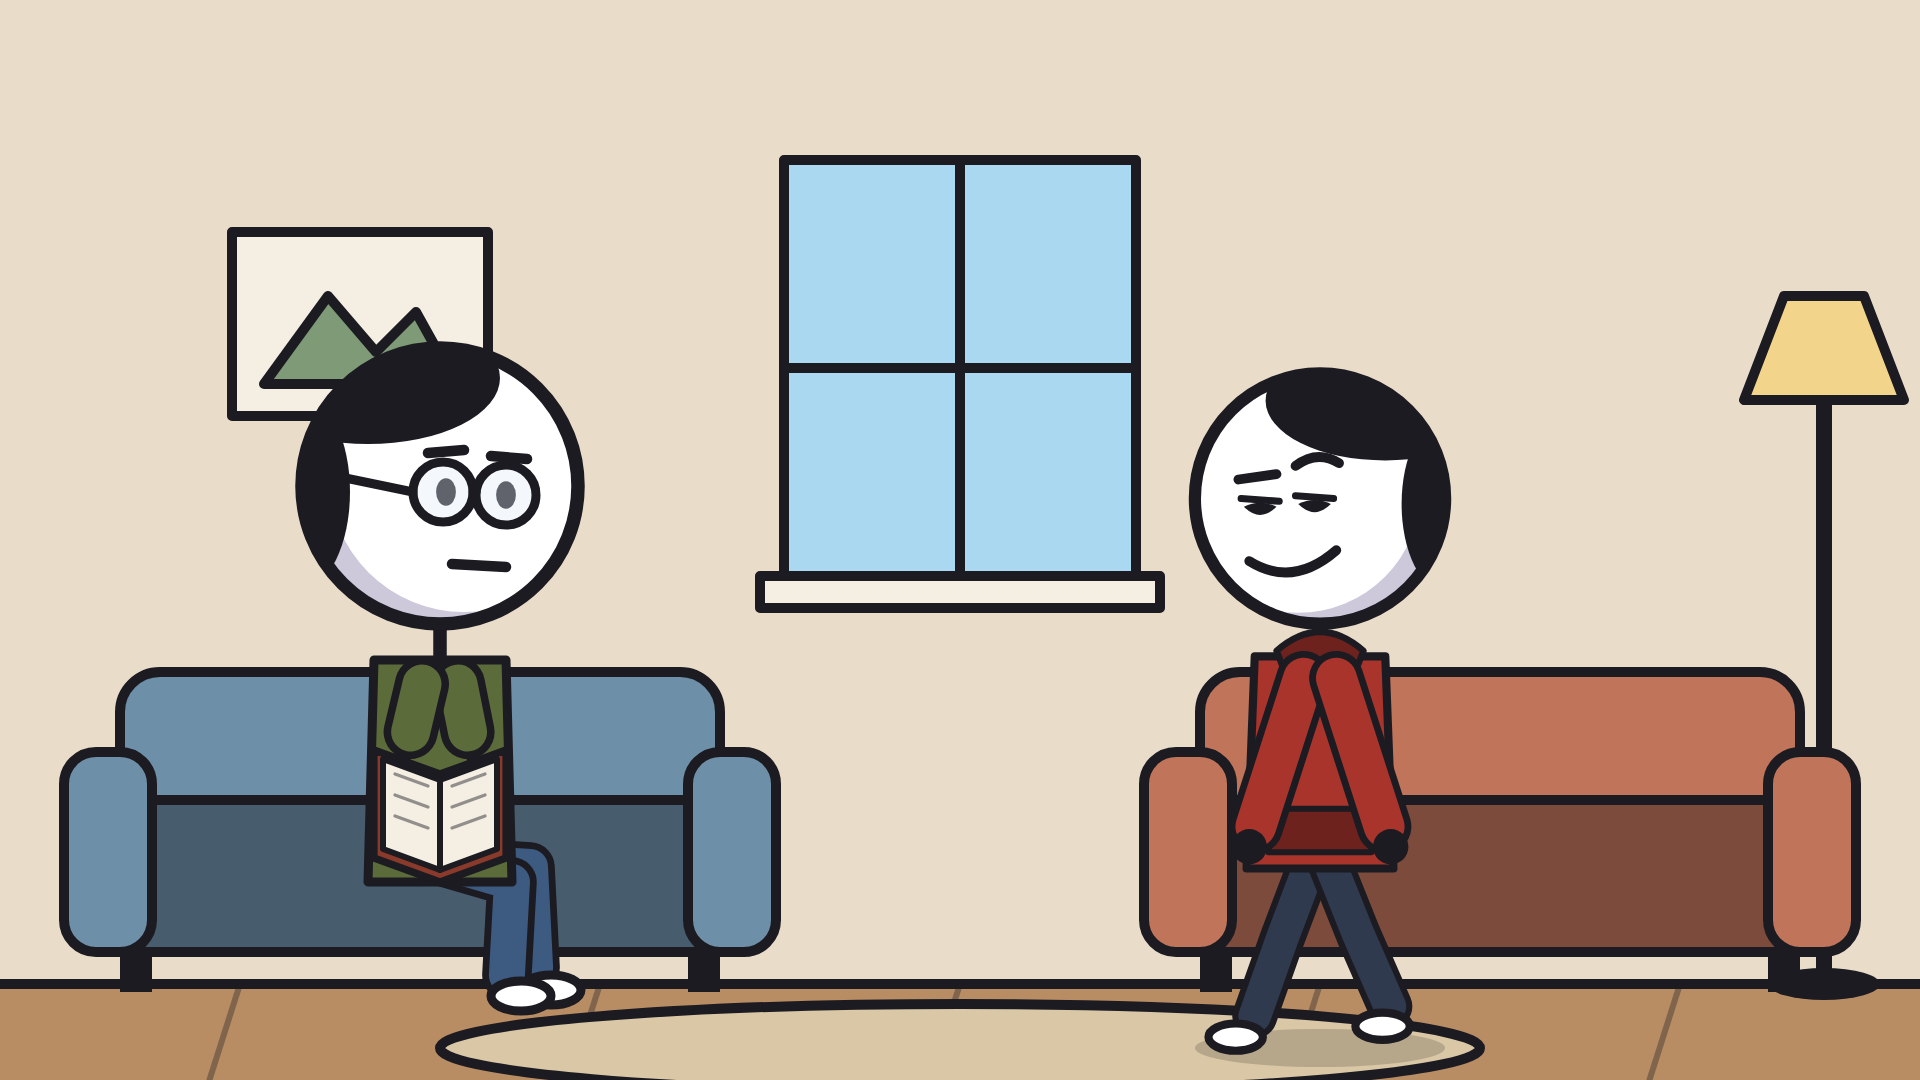
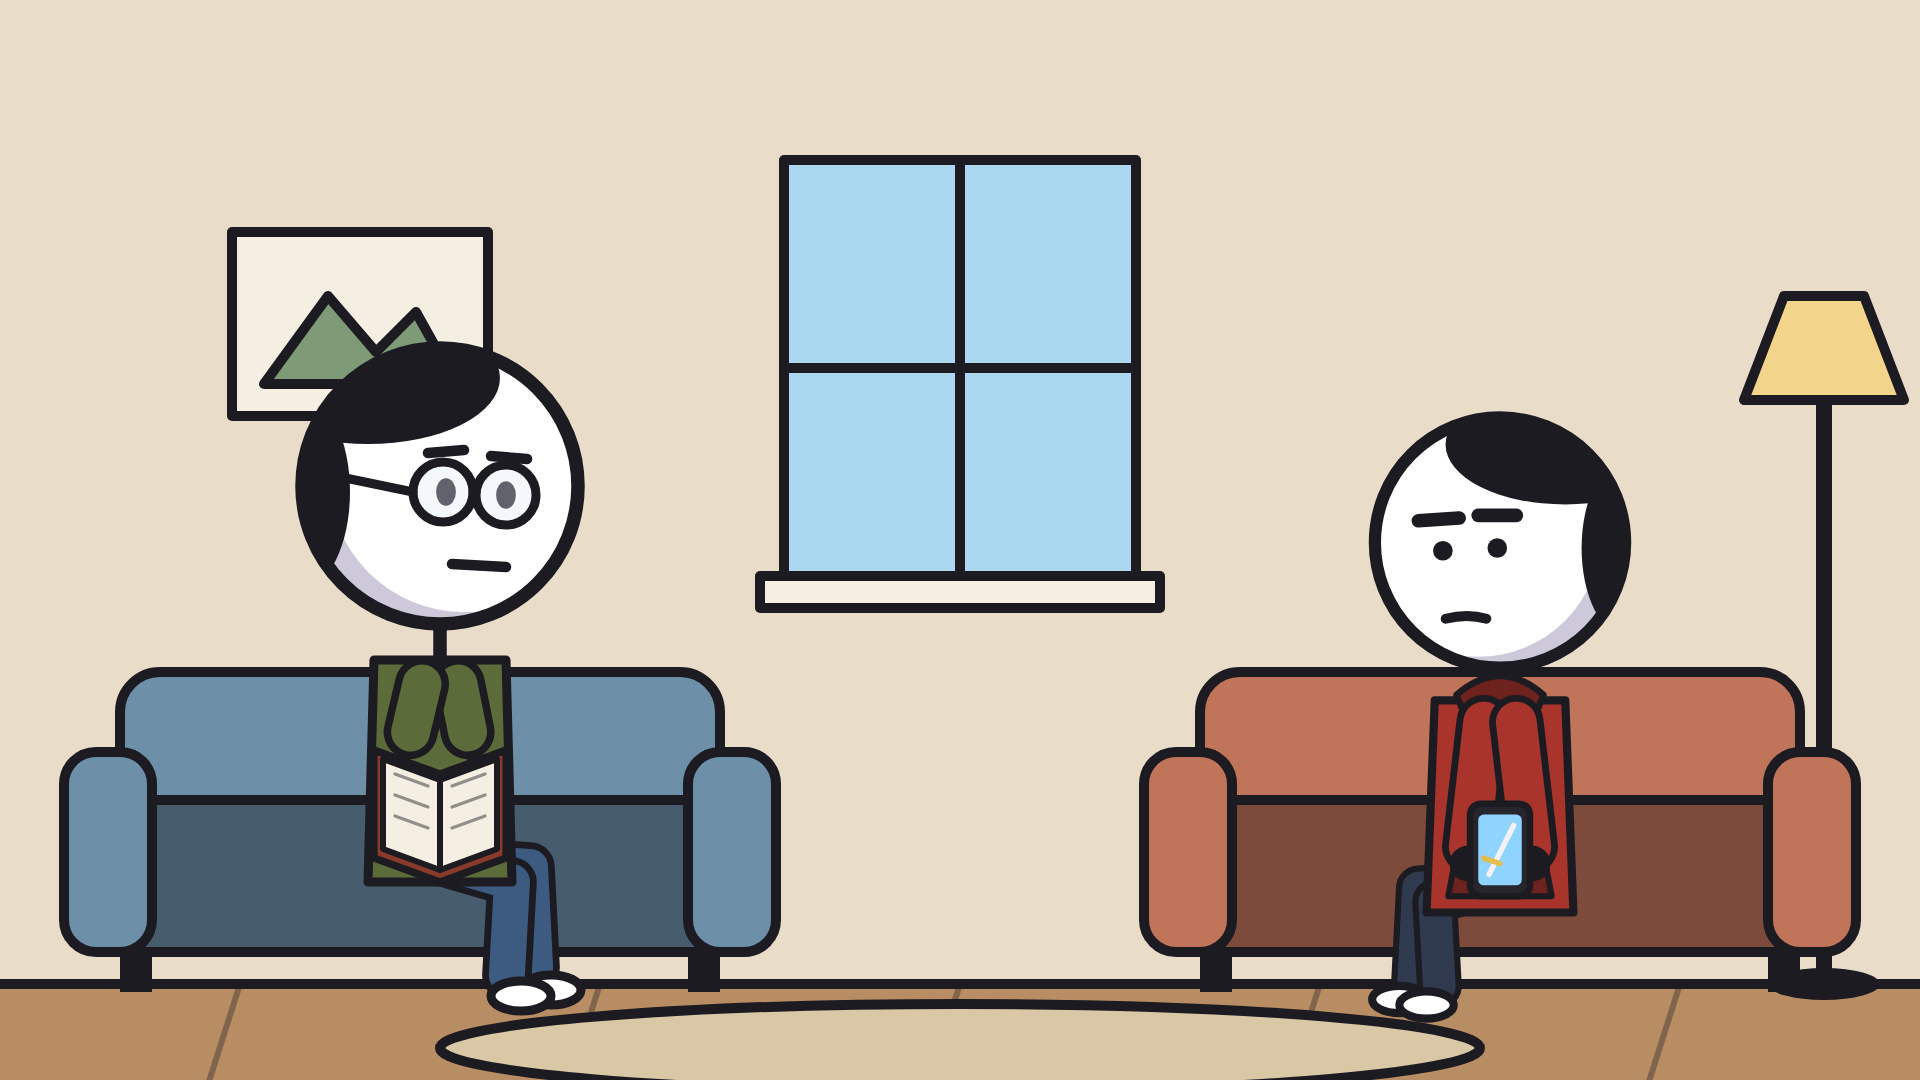
Make Okehazama the channel's first upload: first-meeting intro, forward-looking teasers
Claude-Session: https://claude.ai/code/session_017MZkjJJA6nnTq3dLaS6Yci

Changed region(s): [[0.5938, 0.3361, 0.875, 1.0]]

diff --git a/episodes/02-okehazama/shots.js b/episodes/02-okehazama/shots.js
@@ -52,27 +52,28 @@ module.exports = {
     "Outro": "light",
   },
   shots: [
-    // Intro: father and son in the living room
+    // Intro: father and son in the living room (first episode of the channel)
     { id: "intro-1", section: "Intro", speaker: "son", background: "livingroom", camera: "static",
-      note: "Living room. Father reads on the blue sofa; son walks in, excited.",
-      characters: [sit("Father", DAD, 110, { flip: true }), ch("Son", SON, 330, { scale: 0.68, pose: "walk", face: "smug" })],
-      narration: "Dad! You promised me the next story!" },
+      note: "Living room. Father (glasses, green T-shirt) reads on the blue sofa. His 16-year-old son (red hoodie) sits on the orange sofa, playing a samurai game on his phone.",
+      characters: [sit("Father", DAD, 110, { flip: true }), sit("Son", { ...SON, prop: "phone" }, 375, { scale: 0.68 })],
+      narration: "Come on, come on... one more battle!" },
     { id: "intro-2", section: "Intro", speaker: "father", background: "livingroom", camera: "slow zoom in",
-      note: "Father lowers his book, smiling.",
-      characters: [sit("Father", DAD, 110, { flip: true, face: "smug" }), ch("Son", SON, 300, { scale: 0.68, face: "gentle" })],
-      narration: "I did. Last time, the samurai had peace and nothing left to fight. This time, we go back to when Japan was at war with itself." },
+      note: "Father puts the book down and walks over, smiling.",
+      characters: [ch("Father", DAD, 250, { flip: true, pose: "walk", face: "smug" }), sit("Son", { ...SON, prop: "phone" }, 375, { scale: 0.68 })],
+      narration: "Samurai, huh? Do you know anything about real samurai battles?" },
     { id: "intro-3", section: "Intro", speaker: "son", background: "livingroom", camera: "quick push in",
-      note: "Son, curious.",
-      characters: [sit("Father", DAD, 110, { flip: true, face: "gentle" }), ch("Son", SON, 300, { scale: 0.68, face: "surprised" })],
-      narration: "Was there a big battle?" },
+      note: "Son shakes his head.",
+      characters: [ch("Father", DAD, 260, { flip: true, prop: "none", face: "smug" }), sit("Son", { ...SON, prop: "phone", face: "closed" }, 375, { scale: 0.68 })],
+      narration: "Not really." },
     { id: "intro-4", section: "Intro", speaker: "father", background: "livingroom", camera: "slow zoom in",
-      note: "Father puts the book down.",
-      characters: [sit("Father", DAD, 110, { flip: true, prop: "none", face: "smug" }), ch("Son", SON, 300, { scale: 0.68, face: "surprised" })],
-      narration: "One of the most surprising battles in history. Two thousand men against twenty-five thousand. Sit down, and I'll tell you." },
+      note: "Father, gentle and a little mysterious.",
+      characters: [ch("Father", DAD, 260, { flip: true, prop: "none", face: "gentle" }), sit("Son", { ...SON, prop: "phone", face: "surprised" }, 375, { scale: 0.68 })],
+      narration: "Then pause your game and come sit with me. I'll tell you about one of the most surprising battles in history. Two thousand men against twenty-five thousand." },
     { id: "intro-5", section: "Intro", speaker: "son", background: "livingroom", camera: "slow zoom in",
       note: "Father and son side by side on the blue sofa.",
-      characters: [sit("Father", DAD, 95, { flip: true, prop: "none", face: "gentle" }), sit("Son", SON, 165, { scale: 0.68, face: "gentle" })],
-      narration: "Okay. I'm ready." },
+      characters: [sit("Father", DAD, 95, { flip: true, prop: "none", face: "gentle" }), sit("Son", SON, 165, { scale: 0.68, face: "surprised" })],
+      narration: "Two thousand against twenty-five thousand? Okay. I'm listening." },
+
     // Hook
     { section: "Hook", background: "valley", camera: "slow pan right", text: "Central Japan, 1560",
       note: "Valley, day. A long line of Imagawa soldiers with spears marching.",
@@ -255,7 +256,7 @@ module.exports = {
     { section: "What came next", background: "palace", camera: "slow zoom in", text: "Tokugawa shogunate, 1603",
       note: "Older Ieyasu in an official robe with a scroll.",
       characters: [ch("Ieyasu", { ...C.motoyasu, outfit: "kimono", prop: "scroll", face: "smug" }, 240)],
-      narration: "Yes, that Tokugawa. About forty years after Okehazama, Ieyasu would win the struggle for Japan and found the Tokugawa shogunate, the government that gave Japan the long peace we saw in our last episode. The same peace that left the forty-seven ronin with no wars to fight." },
+      narration: "Yes, that Tokugawa. About forty years after Okehazama, Ieyasu would win the struggle for Japan and found the Tokugawa shogunate, the government that gave Japan more than two hundred and fifty years of peace. And that long peace would lead to one of the most famous revenge stories in Japanese history." },
     { section: "What came next", background: "palace", camera: "quick push in", text: "天下布武 Tenka fubu",
       note: "Nobunaga with a scroll, determined.",
       characters: [ch("Nobunaga", { ...C.nobunaga, prop: "scroll" }, 240)],
@@ -263,7 +264,7 @@ module.exports = {
     { section: "What came next", background: "palace", tint: dusk, camera: "slow zoom in", text: "Honnō-ji, 1582",
       note: "Nobunaga surprised at night, a shadowy general behind him.",
       characters: [ch("Nobunaga", { ...C.nobuYoung, face: "surprised" }, 300), ch("General", { ...C.odaSoldier, face: "smug", color: "#2a2830" }, 150, { flip: true, scale: 0.65 })],
-      narration: "He came very close. Within about twenty years, Nobunaga controlled much of central Japan. Then, in 1582, at a temple in Kyoto called Honnō-ji, one of his own generals turned against him. That's a story for next time." },
+      narration: "He came very close. Within about twenty years, Nobunaga controlled much of central Japan. Then, in 1582, at a temple in Kyoto called Honnō-ji, one of his own generals turned against him. But that's a story for another day." },
     // Outro: back to the living room
     { id: "outro-1", section: "Outro", speaker: "son", background: "livingroom", camera: "static",
       note: "Living room. Father and son on the blue sofa; son amazed.",

diff --git a/scripts/02-okehazama.md b/scripts/02-okehazama.md
@@ -1,6 +1,6 @@
 # How 2,000 Samurai Beat an Army of 25,000 (Battle of Okehazama)
 
-**Target length:** about 10 minutes (1299 spoken words at 145 words per minute)
+**Target length:** about 10 minutes (1297 spoken words at 145 words per minute)
 **Audience:** US, UK, Canada, Australia
 
 ---
@@ -18,15 +18,15 @@
 > In 1560, the most powerful lord in central Japan marched west with about 25,000 men. Standing in his way was a 25-year-old everyone called the Great Fool of Owari. What happened in a small valley called Okehazama changed the course of Japanese history.
 >
 > 0:00 Intro
-> 0:30 Hook
-> 1:06 The Great Fool of Owari
-> 2:25 The finest archer of the Eastern Sea Road
-> 3:23 The forts fall
-> 4:05 Fifty years of human life
-> 5:27 The storm
-> 7:24 Why it worked
-> 7:57 What came next
-> 9:10 Outro
+> 0:27 Hook
+> 1:03 The Great Fool of Owari
+> 2:22 The finest archer of the Eastern Sea Road
+> 3:20 The forts fall
+> 4:02 Fifty years of human life
+> 5:24 The storm
+> 7:21 Why it worked
+> 7:54 What came next
+> 9:09 Outro
 
 Chapter times are estimates; update them from episode.timed.json after the voiceover is recorded.
 
@@ -42,27 +42,27 @@ Scene notes in [brackets]. Characters and backgrounds come from Xưởng Nhân V
 
 ### 0:00 – Intro
 
-[SCENE 1: Living room. Father reads on the blue sofa; son walks in, excited.]
+[SCENE 1: Living room. Father (glasses, green T-shirt) reads on the blue sofa. His 16-year-old son (red hoodie) sits on the orange sofa, playing a samurai game on his phone.]
 
-SON: Dad! You promised me the next story!
+SON: Come on, come on... one more battle!
 
-[SCENE 2: Father lowers his book, smiling.]
+[SCENE 2: Father puts the book down and walks over, smiling.]
 
-FATHER: I did. Last time, the samurai had peace and nothing left to fight. This time, we go back to when Japan was at war with itself.
+FATHER: Samurai, huh? Do you know anything about real samurai battles?
 
-[SCENE 3: Son, curious.]
+[SCENE 3: Son shakes his head.]
 
-SON: Was there a big battle?
+SON: Not really.
 
-[SCENE 4: Father puts the book down.]
+[SCENE 4: Father, gentle and a little mysterious.]
 
-FATHER: One of the most surprising battles in history. Two thousand men against twenty-five thousand. Sit down, and I'll tell you.
+FATHER: Then pause your game and come sit with me. I'll tell you about one of the most surprising battles in history. Two thousand men against twenty-five thousand.
 
 [SCENE 5: Father and son side by side on the blue sofa.]
 
-SON: Okay. I'm ready.
+SON: Two thousand against twenty-five thousand? Okay. I'm listening.
 
-### 0:30 – Hook
+### 0:27 – Hook
 
 [SCENE 6: Valley, day. A long line of Imagawa soldiers with spears marching. On screen: Central Japan, 1560]
 
@@ -76,7 +76,7 @@ Standing in their way is a young lord with a few thousand soldiers, a bad reputa
 
 His own advisers think he's finished. His enemies think he's a joke. By the end of the day, one of those two men will be gone, and the history of Japan will change direction.
 
-### 1:06 – The Great Fool of Owari
+### 1:03 – The Great Fool of Owari
 
 [SCENE 9: Teenage Nobunaga in a red kimono walking through town, smug. On screen: Oda Nobunaga]
 
@@ -102,7 +102,7 @@ Even his own family didn't trust him. In his first years as clan leader, he had 
 
 But the fool was paying attention. He trained his men with extra-long spears. He studied the new guns that had recently arrived in Japan with Portuguese traders. And he chose his men for their talent, not their family name.
 
-### 2:25 – The finest archer of the Eastern Sea Road
+### 2:22 – The finest archer of the Eastern Sea Road
 
 [SCENE 15: Yoshimoto in an elegant court robe with a fan, smug. On screen: Imagawa Yoshimoto]
 
@@ -124,7 +124,7 @@ Historians still debate why. Maybe he wanted to reach Kyoto and take control of 
 
 Yoshimoto's army is usually counted at about twenty-five thousand men. Some sources say more. Nobunaga could gather maybe two or three thousand. On paper, this wasn't a war. It was a formality.
 
-### 3:23 – The forts fall
+### 3:20 – The forts fall
 
 [SCENE 20: Burning fort on the horizon, Imagawa soldiers advancing.]
 
@@ -142,7 +142,7 @@ Remember that name. He'll come back later, under a different one.
 
 Before dawn on the nineteenth day of the fifth month, the border forts of Marune and Washizu came under attack. Smoke was rising over the border, and messengers were riding hard to Nobunaga's castle at Kiyosu.
 
-### 4:05 – Fifty years of human life
+### 4:02 – Fifty years of human life
 
 [SCENE 24: War council the night before. Worried generals, relaxed Nobunaga.]
 
@@ -176,7 +176,7 @@ He stopped at Atsuta Shrine to pray. Soldiers kept arriving until he had perhaps
 
 From the hills, he could see the smoke of his burning forts.
 
-### 5:27 – The storm
+### 5:24 – The storm
 
 [SCENE 32: Yoshimoto in armor resting in the valley with his fan, smug. On screen: Okehazama]
 
@@ -218,7 +218,7 @@ His bodyguards fought hard, but the attackers broke through. Two of Nobunaga's s
 
 With their leader gone, the huge Imagawa army simply fell apart. Units retreated in every direction. The invasion was over in an afternoon.
 
-### 7:24 – Why it worked
+### 7:21 – Why it worked
 
 [SCENE 42: Diagram-like: few Oda soldiers vs a small Imagawa group. On screen: 1. Only fight part of the army]
 
@@ -232,7 +232,7 @@ Second, speed. While everyone else was planning, Nobunaga was moving.
 
 And third, luck. That storm arrived at exactly the right moment. But luck only helps people who are already in position to use it.
 
-### 7:57 – What came next
+### 7:54 – What came next
 
 [SCENE 45: Townspeople cheering Nobunaga.]
 
@@ -244,7 +244,7 @@ And remember that seventeen-year-old commander, Matsudaira Motoyasu? With the Im
 
 [SCENE 47: Older Ieyasu in an official robe with a scroll. On screen: Tokugawa shogunate, 1603]
 
-Yes, that Tokugawa. About forty years after Okehazama, Ieyasu would win the struggle for Japan and found the Tokugawa shogunate, the government that gave Japan the long peace we saw in our last episode. The same peace that left the forty-seven ronin with no wars to fight.
+Yes, that Tokugawa. About forty years after Okehazama, Ieyasu would win the struggle for Japan and found the Tokugawa shogunate, the government that gave Japan more than two hundred and fifty years of peace. And that long peace would lead to one of the most famous revenge stories in Japanese history.
 
 [SCENE 48: Nobunaga with a scroll, determined. On screen: 天下布武 Tenka fubu]
 
@@ -252,9 +252,9 @@ As for Nobunaga, he kept going. He took new provinces, marched into Kyoto and be
 
 [SCENE 49: Nobunaga surprised at night, a shadowy general behind him. On screen: Honnō-ji, 1582]
 
-He came very close. Within about twenty years, Nobunaga controlled much of central Japan. Then, in 1582, at a temple in Kyoto called Honnō-ji, one of his own generals turned against him. That's a story for next time.
+He came very close. Within about twenty years, Nobunaga controlled much of central Japan. Then, in 1582, at a temple in Kyoto called Honnō-ji, one of his own generals turned against him. But that's a story for another day.
 
-### 9:10 – Outro
+### 9:09 – Outro
 
 [SCENE 50: Living room. Father and son on the blue sofa; son amazed.]
 

diff --git a/CLAUDE.md b/CLAUDE.md
@@ -26,11 +26,13 @@ From episode 2 on, the father can mention the channel name in the outro.
   `tools/make-music.py`. Never add downloaded music, images or clips.
 
 ## Episodes
-| # | Folder | Topic | Status |
+Folder numbers are the order they were written; **upload order** is what viewers see.
+
+| Upload | Folder | Topic | Status |
 |---|---|---|---|
-| 1 | `episodes/01-47-ronin` | The 47 Ronin (1701–1703) | Final: Gemini voice (Charon/Puck), father/son intro and outro, 3 Shorts. Owner wants it kept as is; do not re-voice with ElevenLabs |
-| 2 | `episodes/02-okehazama` | Battle of Okehazama (1560) | Script and frames done, with father/son intro and outro; render with ElevenLabs |
-| 3 | (next) | Honnō-ji Incident (1582) | Teased at the end of episode 2 |
+| **1st** | `episodes/02-okehazama` | Battle of Okehazama (1560), "2,000 vs 25,000" | Channel opener. Intro written as the first meeting (son playing a samurai game). Script and frames done; render with ElevenLabs |
+| **2nd** | `episodes/01-47-ronin` | The 47 Ronin (1701–1703) | Final video done (Gemini voice, father/son intro and outro, 3 Shorts). Owner wants it kept as is; do not re-voice with ElevenLabs |
+| 3rd | (next) | Honnō-ji Incident (1582) | Mentioned in the Okehazama ending ("a story for another day") |
 
 ## Pipeline (run from the repo root)
 1. Write `episodes/<NN-name>/shots.js` (narration, scene notes, characters, YouTube package,

diff --git a/channel/description.md b/channel/description.md
@@ -14,7 +14,7 @@ What you'll find here:
 • Legends from Asia, Europe and around the world, and what really happened
 • Shorts with the best moments from each story
 
-New to history? Start with The 47 Ronin.
+New here? Start with "How 2,000 Samurai Beat an Army of 25,000."
 
 Subscribe and tell us in the comments which story Dad should tell next.
 
